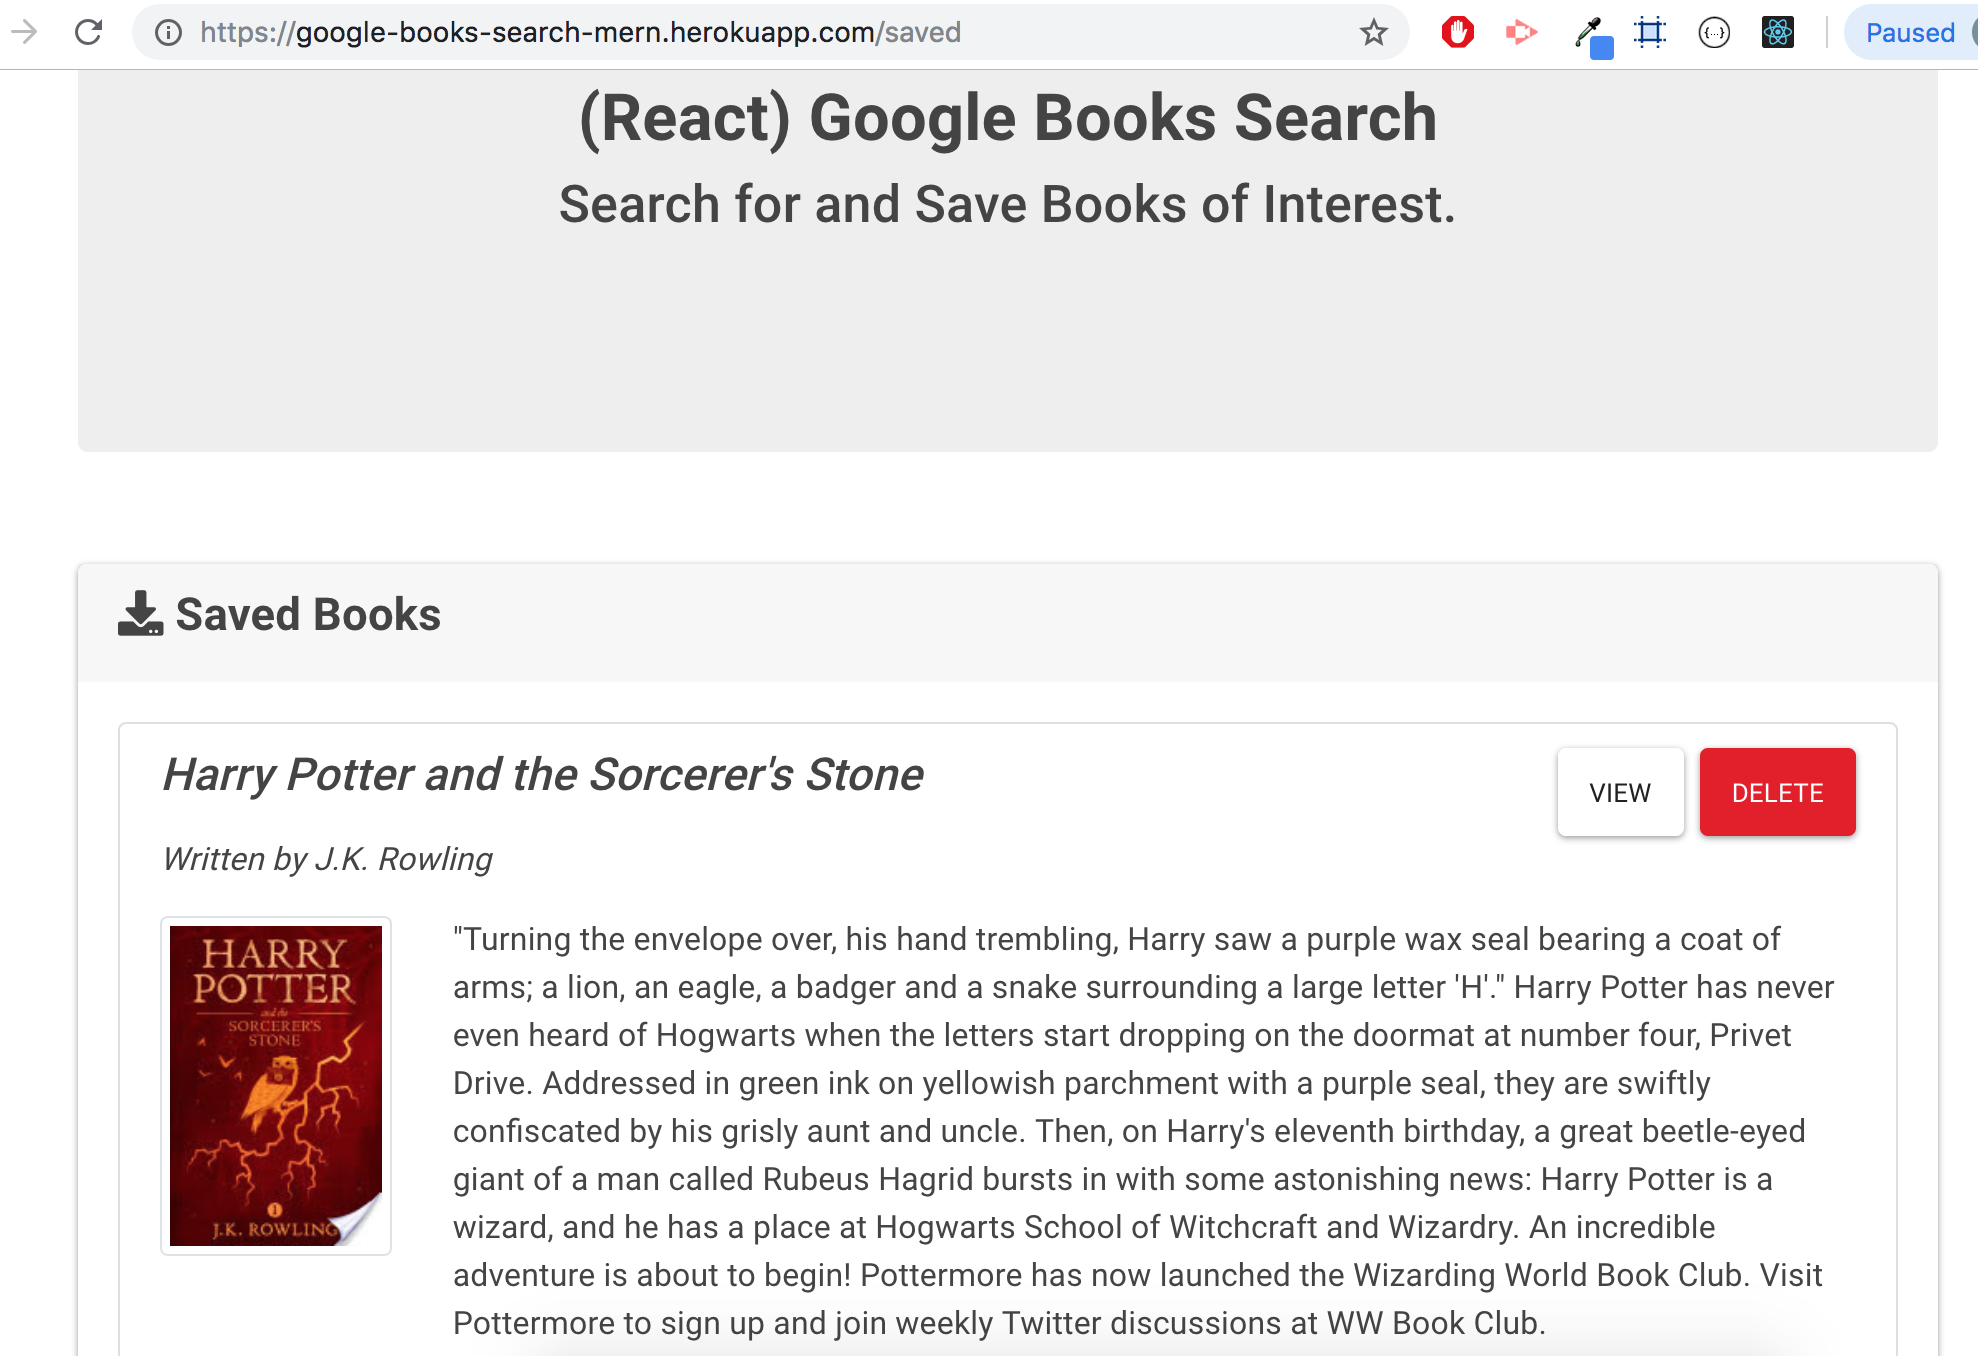
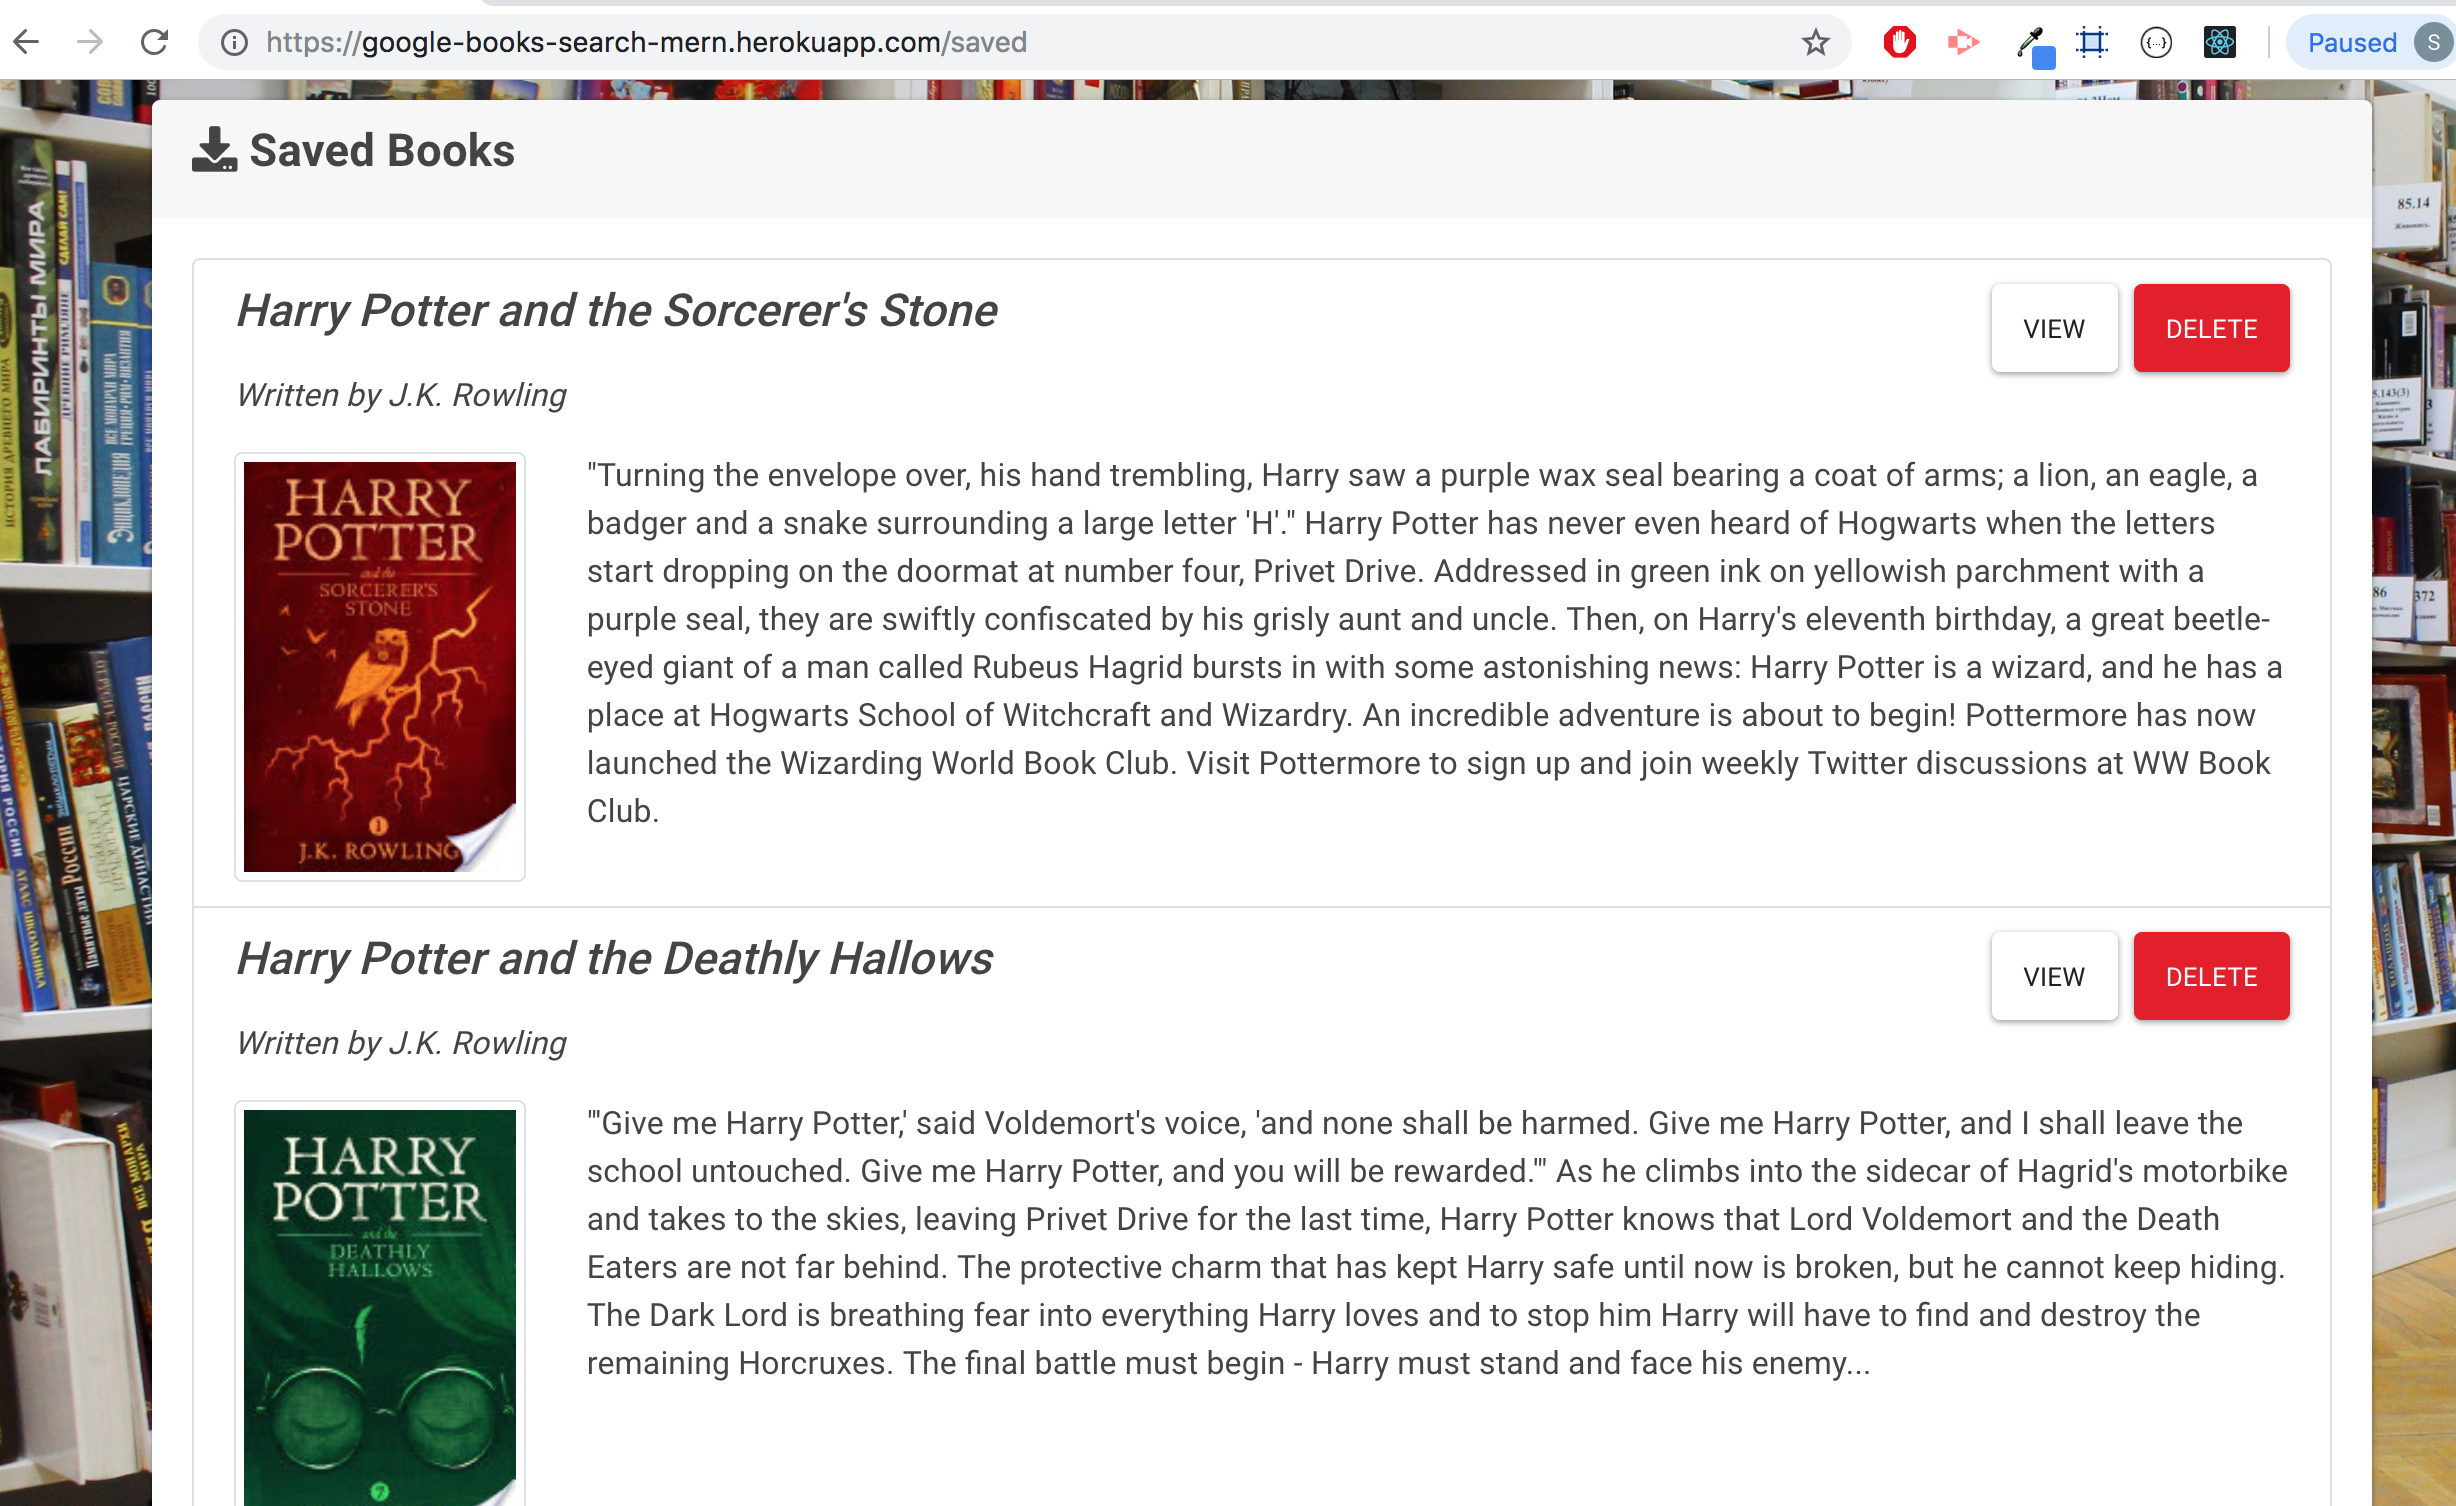
readme update

diff --git a/README.md b/README.md
@@ -52,9 +52,16 @@ Server side
 
 *   Search Page
 
+    ![App](./readmeImage/searchapp.png)
+
+
     ![App](./readmeImage/search.png)
 
+
 *   Saved Page
+
+    ![App](./readmeImage/savedapp.png)
+
 
     ![App](./readmeImage/saved.png)
 
